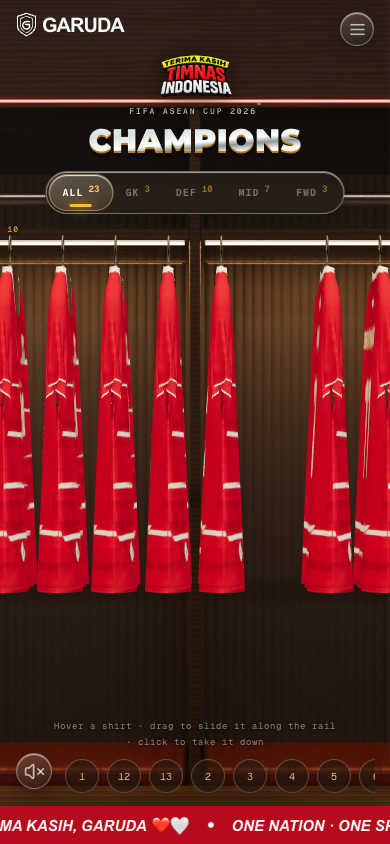
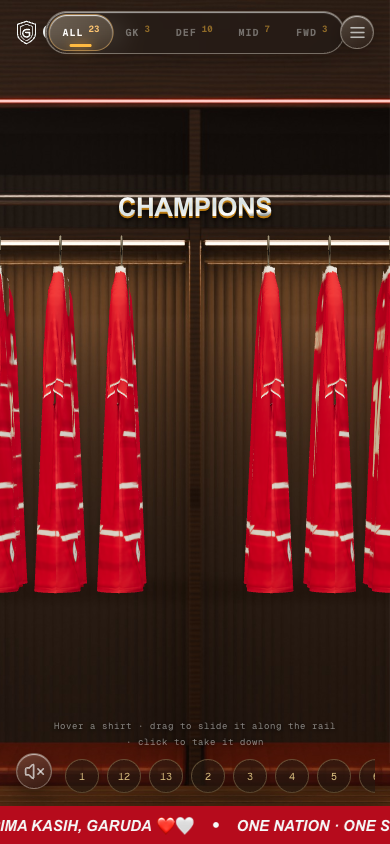
.

diff --git a/frontend/src/components/ReferenceScene.tsx b/frontend/src/components/ReferenceScene.tsx
@@ -237,6 +237,15 @@ function HangingJersey({
   );
 }
 
+function getInterGroupGap(posA: string, posB: string, isMobile: boolean): number {
+  if (posA === posB) return 0;
+  // Center gap between DEF and MID is the widest, leaving space around the center pillar
+  if ((posA === 'DEF' && posB === 'MID') || (posA === 'MID' && posB === 'DEF')) {
+    return isMobile ? 0.36 : 0.28;
+  }
+  return isMobile ? 0.24 : 0.16;
+}
+
 function Scene({
   products,
   filter,
@@ -267,8 +276,8 @@ function Scene({
   const groupCount = new Set(sorted.map((product) => product.position)).size;
   const halfWidth = isMobile
     ? Math.max(
-        1.68,
-        ((sorted.length - 1) * mobileSpacing + Math.max(0, groupCount - 1) * 0.025) / 2 + 0.15,
+        1.75,
+        ((sorted.length - 1) * mobileSpacing + Math.max(0, groupCount - 1) * 0.28) / 2 + 0.2,
       )
     : Math.min(1.7, worldWidth / 2 - 0.14);
   const bounds: RailBounds = {
@@ -277,21 +286,44 @@ function Scene({
     gap: Math.min(0.065, (halfWidth * 2 - 0.78) / Math.max(1, sorted.length - 3)),
   };
   const initialPositions = useMemo(() => {
-    const groupGap = 0.025;
-    const spacing = Math.min(
-      isMobile ? mobileSpacing : 0.16,
-      (halfWidth * 2 - 0.12 - (groupCount - 1) * groupGap) / Math.max(1, sorted.length - 1),
-    );
+    if (!sorted.length) return [];
+    if (groupCount <= 1) {
+      const spacing = isMobile
+        ? mobileSpacing
+        : Math.min(0.14, 2.2 / Math.max(1, sorted.length - 1));
+      const totalWidth = (sorted.length - 1) * spacing;
+      return sorted.map((_, i) => i * spacing - totalWidth / 2);
+    }
+
+    const spacing = isMobile ? 0.15 : 0.088;
+    const result: number[] = [];
     let cursor = 0;
-    const result = sorted.map((product, index) => {
-      if (index && sorted[index - 1].position !== product.position) cursor += groupGap;
-      const x = cursor;
-      cursor += spacing;
-      return x;
+    sorted.forEach((product, index) => {
+      if (index > 0) {
+        const prev = sorted[index - 1];
+        if (prev.position !== product.position) {
+          cursor += getInterGroupGap(prev.position, product.position, isMobile);
+        } else {
+          cursor += spacing;
+        }
+      }
+      result.push(cursor);
     });
-    const center = (cursor - spacing) / 2;
+
+    let defLastIndex = -1;
+    let midFirstIndex = -1;
+    for (let i = 0; i < sorted.length; i++) {
+      if (sorted[i].position === 'DEF') defLastIndex = i;
+      if (sorted[i].position === 'MID' && midFirstIndex === -1) midFirstIndex = i;
+    }
+
+    const center =
+      defLastIndex !== -1 && midFirstIndex !== -1
+        ? (result[defLastIndex] + result[midFirstIndex]) / 2
+        : (result[0] + result[result.length - 1]) / 2;
+
     return result.map((x) => x - center);
-  }, [visibleIds, halfWidth, isMobile, mobileSpacing, groupCount]);
+  }, [visibleIds, isMobile, mobileSpacing, groupCount]);
   const [railPositions, setRailPositions] = useState(initialPositions);
   const [dragging, setDragging] = useState(false);
   const railGroup = useRef<Group>(null);
@@ -349,6 +381,7 @@ function Scene({
     !selected && !dragging ? sorted.findIndex((product) => product.id === hovered?.id) : -1;
   const displayPositions = openJerseyGap(validPositions, hoveredIndex, bounds);
   useEffect(() => {
+    if (drag.current) return;
     setRailPositions(initialPositions);
     railTargetOffset.current = 0;
     railMomentum.current = 0;
@@ -502,6 +535,15 @@ function Scene({
               </Html>
             );
           })}
+        {!selected && filter === 'ALL' && (
+          <Html
+            position={[0, 2.04, 0]}
+            center
+            style={{ pointerEvents: 'none', whiteSpace: 'nowrap' }}
+          >
+            <div className="ref-rail-champions">CHAMPIONS</div>
+          </Html>
+        )}
       </group>
     </>
   );

diff --git a/frontend/src/pages/ReferenceHomePage.tsx b/frontend/src/pages/ReferenceHomePage.tsx
@@ -1,4 +1,4 @@
-import { lazy, Suspense, useState, useCallback, useEffect, useRef } from 'react';
+import { lazy, Suspense, useState, useCallback, useEffect, useRef, useMemo } from 'react';
 import { Link, useLocation } from 'react-router-dom';
 import { StoreHeader, StoreFooter, GarudaBrand } from '../components/StoreChrome';
 import {
@@ -66,13 +66,18 @@ export function ReferenceHomePage() {
     setRotation(0);
     if (product) setSize(product.sizes.includes('M') ? 'M' : product.sizes[0]);
   }, []);
-  const railProducts = products
-    .filter((product) => product.featured)
-    .sort(
-      (a, b) =>
-        ['GK', 'DEF', 'MID', 'FWD'].indexOf(a.position) -
-          ['GK', 'DEF', 'MID', 'FWD'].indexOf(b.position) || Number(a.number) - Number(b.number),
-    );
+  const railProducts = useMemo(
+    () =>
+      products
+        .filter((product) => product.featured)
+        .sort(
+          (a, b) =>
+            ['GK', 'DEF', 'MID', 'FWD'].indexOf(a.position) -
+              ['GK', 'DEF', 'MID', 'FWD'].indexOf(b.position) ||
+            Number(a.number) - Number(b.number),
+        ),
+    [products],
+  );
   const reference =
     selected && referencePlayers[selected.number]?.shirt === selected.player
       ? referencePlayers[selected.number]

diff --git a/frontend/src/reference.css b/frontend/src/reference.css
@@ -247,6 +247,31 @@
   height: 1px;
   background: #f6faf940;
 }
+.ref-rail-champions {
+  font-family: Arial, sans-serif;
+  font-weight: 1000;
+  font-size: 26px;
+  line-height: 1;
+  letter-spacing: -0.5px;
+  color: #f7f6f1;
+  background: linear-gradient(
+    175deg,
+    #fff 5%,
+    #d7e0e0 28%,
+    #fff 42%,
+    #8d9797 48%,
+    #fff 56%,
+    #ffd46c 66%,
+    #fff 74%
+  );
+  background-size: 100% 220%;
+  -webkit-background-clip: text;
+  background-clip: text;
+  -webkit-text-fill-color: transparent;
+  filter: drop-shadow(0 2px 0 #bc7c12) drop-shadow(0 3px 2px #0009);
+  animation: ref-shine 7s ease-in-out infinite;
+  text-transform: uppercase;
+}
 .ref-hint {
   position: absolute;
   bottom: 74px;
